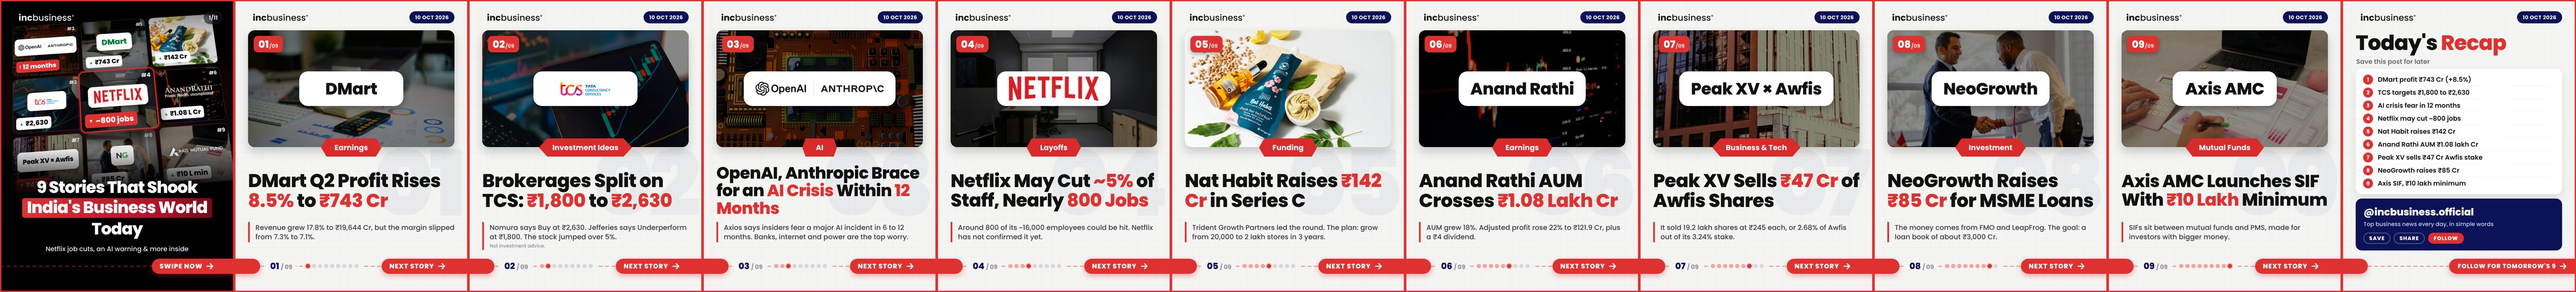
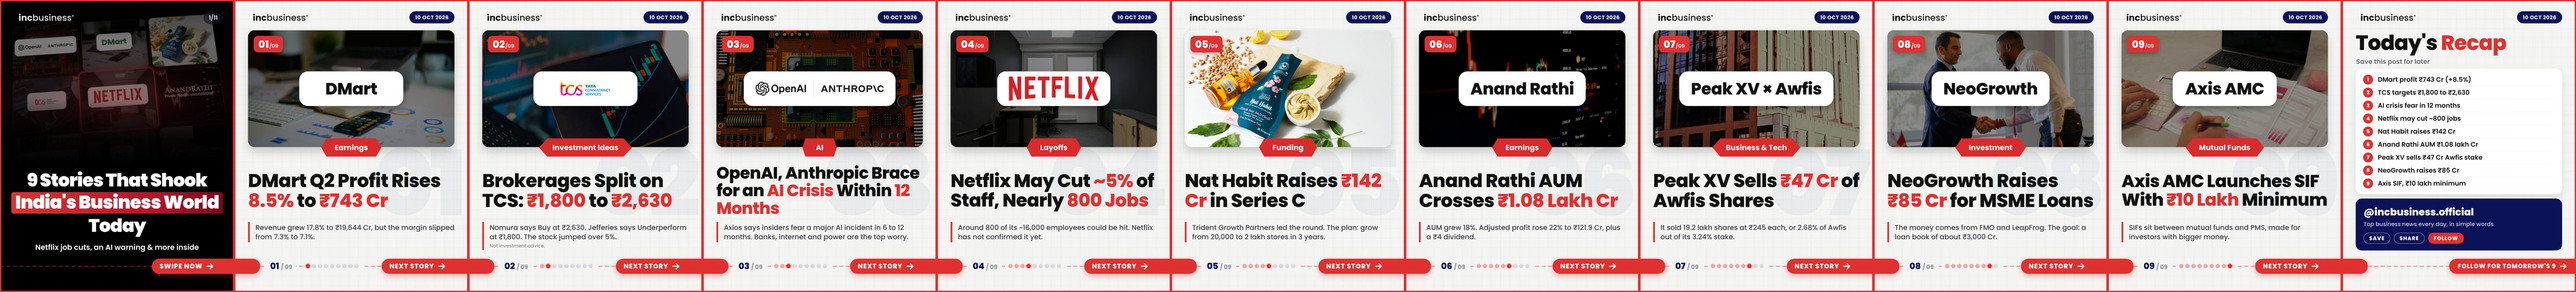
Hero: dim the news wall into a background so the headline leads
Claude-Session: https://claude.ai/code/session_01QDTeHs6MMXng7uFAh6CMc7

Changed region(s): [[0.0, 0.0593, 0.0934, 0.8], [0.0, 0.8296, 0.0934, 0.8593]]

diff --git a/carousel/render-carousel.js b/carousel/render-carousel.js
@@ -138,6 +138,7 @@ body{width:${SLIDES * W}px;height:${H}px;font-family:Poppins,sans-serif;position
 .wall{position:absolute;left:50%;top:70px;width:960px;margin-left:-480px;display:grid;grid-template-columns:repeat(3,1fr);gap:16px;z-index:0;
   transform:perspective(1600px) rotateX(14deg) rotateZ(-4deg);transform-origin:50% 40%}
 .wt{position:relative;height:250px;border-radius:22px;overflow:hidden;background:#111;box-shadow:0 18px 40px rgba(0,0,0,.6);border:2px solid rgba(255,255,255,.12)}
+.wall{opacity:.5;filter:saturate(.7) blur(1.2px)}
 .wt.big{transform:scale(1.14);z-index:2;border:4px solid #E03131;box-shadow:0 0 0 6px rgba(224,49,49,.25),0 24px 60px rgba(0,0,0,.8)}
 .wphoto{position:absolute;inset:0;width:100%;height:100%;object-fit:cover;filter:brightness(.5) saturate(1.2)}
 .wphoto.full{filter:brightness(.9)}
@@ -153,16 +154,18 @@ body{width:${SLIDES * W}px;height:${H}px;font-family:Poppins,sans-serif;position
 .wstat span{font-size:20px}
 .wstat.up span{color:#12a150}.wstat.down span,.wstat.warn span{color:#E03131}
 .wstat.down,.wstat.warn{background:#E03131;color:#fff}.wstat.down span,.wstat.warn span{color:#fff}
+.wstat,.wnum{display:none}
 .wnum{position:absolute;right:12px;top:10px;color:#fff;font-weight:800;font-size:24px;opacity:.85}
 .shade{position:absolute;inset:0;z-index:1;pointer-events:none;
-  background:linear-gradient(180deg,rgba(0,0,0,.55) 0%,rgba(0,0,0,0) 12%,rgba(0,0,0,0) 50%,rgba(0,0,0,.88) 64%,#000 72%)}
+  background:linear-gradient(180deg,rgba(0,0,0,.5) 0%,rgba(0,0,0,.05) 14%,rgba(0,0,0,.25) 34%,rgba(0,0,0,.9) 48%,#000 56%)}
 .counter{position:absolute;top:52px;right:52px;z-index:3;height:60px;padding:0 24px;border-radius:30px;background:rgba(20,20,30,.6);
   color:#fff;font-weight:600;font-size:26px;display:flex;align-items:center;backdrop-filter:blur(6px)}
-.headline{position:absolute;left:40px;right:40px;bottom:250px;z-index:3;text-align:center;color:#fff;font-weight:800;font-size:76px;
+.headline{position:absolute;left:36px;right:36px;bottom:260px;z-index:3;text-align:center;color:#fff;font-weight:900;font-size:84px;
   line-height:1.12;letter-spacing:-2.5px;text-shadow:0 6px 24px rgba(0,0,0,.6)}
 .headline .hlbox{display:inline-block;background:linear-gradient(90deg,#E03131 0%,#B3122A 70%,rgba(140,10,30,.85) 100%);
-  border-radius:12px;padding:0 22px 6px;margin:8px 0;text-shadow:none}
-.nudge{position:absolute;left:0;right:0;top:1128px;z-index:3;text-align:center;color:#e6e6ee;font-weight:500;font-size:30px}
+  border-radius:12px;padding:0 18px 6px;margin:8px 0;text-shadow:none;white-space:nowrap}
+.nudge{position:absolute;left:0;right:0;top:1118px;z-index:3;text-align:center;color:#fff;font-weight:600;font-size:34px}
+.nudge b{color:#ff5a5a}
 /* ---------- story ---------- */
 .ghost{position:absolute;right:30px;top:640px;font-weight:900;font-size:420px;line-height:1;color:rgba(11,18,87,.045);letter-spacing:-20px;z-index:0}
 .media{position:absolute;left:64px;right:64px;top:140px;height:540px;border-radius:30px;overflow:hidden;background:#0a1640;box-shadow:0 22px 44px rgba(0,0,0,.18);z-index:1}
